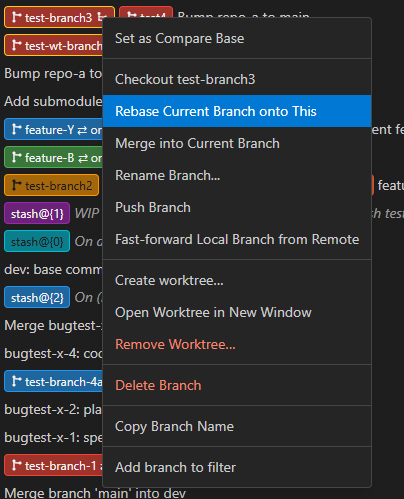
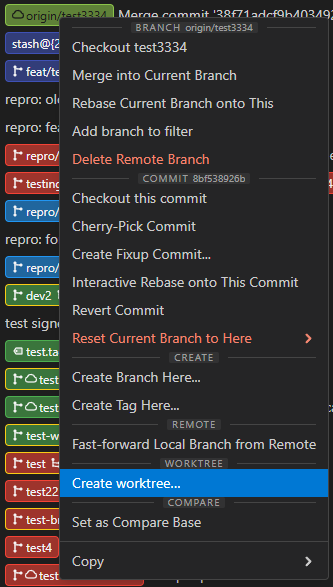
docs: update README to remove outdated sections on GPG signing and compare refs

diff --git a/README.md b/README.md
@@ -27,25 +27,6 @@ A performance-first Git graph, history viewer, history-editing tool, and worktre
 Create, open, reveal, and remove Git worktrees so different AI agents or editor sessions can work on different branches at the same time without switching your main checkout.
 ![Speedy Git Worktrees screenshot](./resources/047-worktrees.png)
 
-### GPG and SSH signing verification
-Verify signed commits on demand with a dedicated Signature column, clear trust states, and bundled help for local signing setup.
-
-### Compare Refs — A vs B, Anything to Anything (new in v4)
-
-![Speedy Git Compare screenshot](./resources/042-compare.png)
-
-Stop dropping into the terminal to figure out what changed between two points in history. Speedy Git now ships a first-class **Compare** panel right next to Filter and Search.
-
-- **Pick any two commit-ish references** in seconds — commit hashes, local branches, remote branches, tags, `HEAD`, your **Working Tree**, or typed expressions like `HEAD~3` and `origin/main^2`. One searchable combobox handles every input type, with recently-used items at the top.
-- **Two-click compare from the graph** — right-click a commit, branch, or tag → **Set as Compare Base**, then right-click another → **Compare with Base**. The diff opens in the Commit Details panel you already use.
-- **Multi-select and compare a range** — Ctrl/Cmd+click two or more commits, right-click → **Compare these commits**. Base = oldest, Target = newest, runs immediately.
-- **PR-style three-dot diff by default** for branch-vs-branch and tag-vs-tag — see exactly "what Target adds since branching off Base," matching GitHub's "Files changed" tab. Smart fallback to two-dot when slots are commit hashes or when there's no common ancestor.
-- **Compare your uncommitted work** against any ref — pick `Working Tree` in one slot and `HEAD`, `origin/main`, or a tag in the other. Auto-refreshes as you edit files on disk.
-- **B / T badges on the graph** light up the moment you fill a slot — no waiting for a comparison to finish to see where your endpoints are.
-- **Live, lazy-resolving slots** — branches and tags resolve to the current tip at Compare time, so a fetch or auto-refresh between picking and clicking is reflected in the result.
-- **Cancel any in-flight compare** mid-run; swap (⇄) Base and Target with one click; **Reset** clears everything in a single action.
-- **Pending-state toolbar button** turns light yellow when slots are filled but the panel is closed, so you never lose your place.
-
 ## Core Feature Summary
 >Right-click menu — there are even more features in other menus and panels!  
 >
